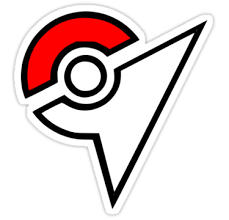
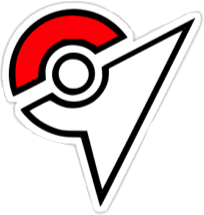
cleaned up images

Changed region(s): [[0.0, 0.0, 1.0, 1.0]]

diff --git a/frontend/controllers/mapController.js b/frontend/controllers/mapController.js
@@ -31,6 +31,8 @@ myApp.controller('mapController', function($scope, $routeParams, NgMap, mapFacto
     $scope.heatType = 0;
     // array used in filtering feature
     $scope.filteredpokemon = [];
+    //turn on searchbar only when going to map page
+    $scope.searchbar = false;
    
     var d = new Date();
     d.setDate(d.getDate() - 1);
@@ -65,6 +67,8 @@ myApp.controller('mapController', function($scope, $routeParams, NgMap, mapFacto
 
     // for finding current location
     if (navigator.geolocation) {
+        // turn searchbar to turn only on map load
+        $scope.searchbar = true;
         navigator.geolocation.getCurrentPosition(function(position) {
             var d = new Date();
             var n = d.toISOString();
@@ -99,6 +103,7 @@ myApp.controller('mapController', function($scope, $routeParams, NgMap, mapFacto
                 createdAt: n
             }
             $scope.$apply();
+
         });
     }
     // db call for all pokemon
@@ -159,6 +164,7 @@ myApp.controller('mapController', function($scope, $routeParams, NgMap, mapFacto
 
         var d = new Date();
         var n = d.toISOString();
+        
         var pos = [event.latLng.lat(), event.latLng.lng()]
         if ($scope.allow == true) {
             console.log('here');

diff --git a/frontend/partials/home.html b/frontend/partials/home.html
@@ -13,7 +13,7 @@
 			  	 <heatmap-layer id="foo" data="heatData"></heatmap-layer>
 
 			  		<!-- The serach box -->
-			  		<map-autocomplete placeholder="{{ 'Type a place here...' }}" position="{{ google.maps.ControlPosition.TOP_LEFT }}" />
+			  		<map-autocomplete ng-if="searchbar" placeholder="{{ 'Type a place here...' }}" position="{{ google.maps.ControlPosition.TOP_LEFT }}" />
 			  		<marker ng-repeat="p in filteredpokemon track by $index"
 			  			ng-if="filterBool"
 			  			id="{{$index}}"
@@ -59,7 +59,7 @@
 			  		<info-window id="foo-iw">
         				<div ng-non-bindable="">
           					Name: {{infoWindow.name}}<br/>
-          					Date Created: {{infoWindow.createdAt}}<br/>
+          					Date Created: {{infoWindow.createdAt }}<br/>
           					<a href="#" ng-click="reportMarker(infoWindow.id)">Report</a>
         				</div>
      			 	</info-window>

diff --git a/frontend/partials/includes/_navbar.html b/frontend/partials/includes/_navbar.html
@@ -1,8 +1,8 @@
 <div class="collapse navbar-collapse" ng-controller="mapController">
     <ul class="nav navbar-nav">
-        <li ng-class="{ active: isActive('/')}"><a href="/">Home</a></li>
-        <li ng-class="{ active: isActive('/map')}"><a href="/map">Map</a></li>
+        <li ng-class="{ active: isActive('/map')}"><a href="/">Map</a></li>
         <li ng-class="{ active: isActive('/chat')}"><a href="/chat">Chat</a></li>
+        <li ng-class="{ active: isActive('/trade')}"><a href="/trade">Trade</a></li>
         <li ng-class="{ active: isActive('/aboutus')}"><a href="/aboutus">About Us</a></li>
     </ul>
 </div>

diff --git a/frontend/app.js b/frontend/app.js
@@ -15,6 +15,18 @@ var myApp = angular.module('Myapp', ["ngRoute",
 				controller: 'mapController',
 				templateUrl: "partials/home.html"
 			})
+			.when('/chat', 
+			{
+				templateUrl: "partials/chat.html"
+			})
+			.when('/trade', 
+			{
+				templateUrl: "partials/trade.html"
+			})
+			.when('/aboutus', 
+			{
+				templateUrl: "partials/aboutus.html"
+			})
 			.otherwise({
 				redirectTo: "/"
 			});

diff --git a/frontend/partials/aboutus.html b/frontend/partials/aboutus.html
@@ -1,0 +1,1 @@
+aboutus.html

diff --git a/frontend/partials/trade.html b/frontend/partials/trade.html
@@ -1,0 +1,1 @@
+trade.html

diff --git a/frontend/partials/chat.html b/frontend/partials/chat.html
@@ -1,0 +1,1 @@
+chat.html
